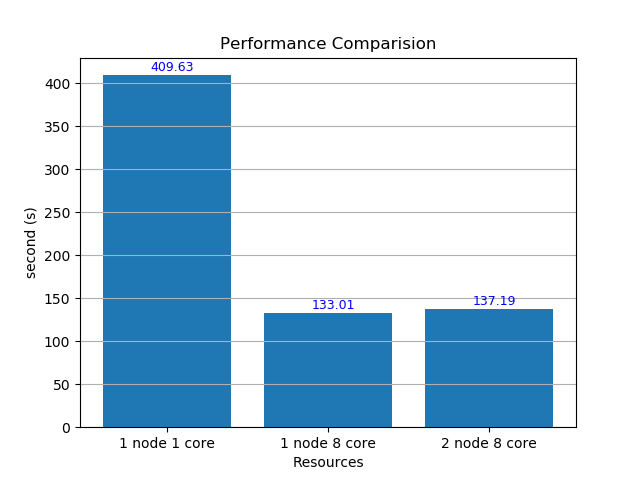
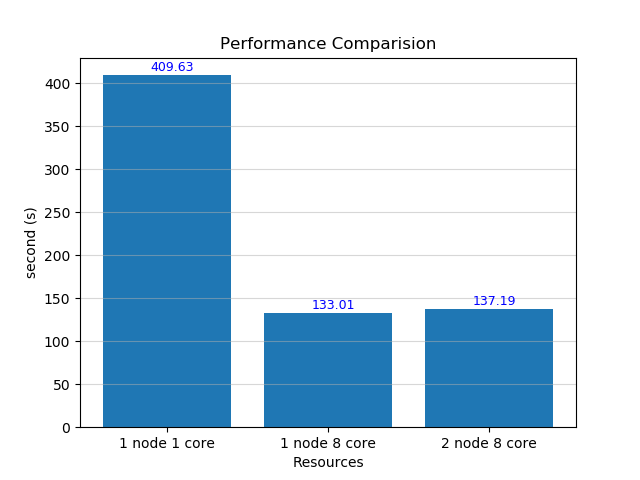
add 1 node v.s. 2 node

diff --git a/src/analysis/analysis.py b/src/analysis/analysis.py
@@ -13,7 +13,7 @@ DATA_FILE_TYPE = ".txt"
 IMAGE_TYPE = ".png"
 
 
-def read_physical_txt(file_path: str):
+def read_txt(file_path: str):
     run_time = None
     read_country_code_file_time = {}  # {#processor: time}
     process_time = {}
@@ -50,21 +50,21 @@ def draw_bar_chart(file_name: str):
     x = []
     y = []
     one_node_1_core_file_path = DATA_DIR + "1node1core-physical" + DATA_FILE_TYPE
-    run_time, read_country_code_file_time, process_time, calculate_top_n_time = read_physical_txt(one_node_1_core_file_path)
+    run_time, read_country_code_file_time, process_time, calculate_top_n_time = read_txt(one_node_1_core_file_path)
     x.append("1 node 1 core")
     y.append(run_time)
 
     one_node_8_core_file_path = DATA_DIR + "1node8core-physical" + DATA_FILE_TYPE
-    run_time, read_country_code_file_time, process_time, calculate_top_n_time = read_physical_txt(one_node_8_core_file_path)
+    run_time, read_country_code_file_time, process_time, calculate_top_n_time = read_txt(one_node_8_core_file_path)
     x.append("1 node 8 core")
     y.append(run_time)
 
     two_node_8_core_file_path = DATA_DIR + "2node8core-physical" + DATA_FILE_TYPE
-    run_time, read_country_code_file_time, process_time, calculate_top_n_time = read_physical_txt(two_node_8_core_file_path)
+    run_time, read_country_code_file_time, process_time, calculate_top_n_time = read_txt(two_node_8_core_file_path)
     x.append("2 node 8 core")
     y.append(run_time)
 
-    plt.grid(True, axis='y')
+    plt.grid(True, axis='y', alpha=0.5)
     plt.bar(range(len(x)), y, tick_label=x)
     plt.title(file_name)
     plt.xlabel("Resources")
@@ -75,7 +75,53 @@ def draw_bar_chart(file_name: str):
     plt.show()
 
 
+def draw_bar_chart2(file_name: str):
+    name_list = []
+    y1 = []
+    y2 = []
+    one_node_8_core_file_path = DATA_DIR + "1node8core-physical" + DATA_FILE_TYPE
+    run_time, read_country_code_file_time, process_time, calculate_top_n_time = read_txt(one_node_8_core_file_path)
+    name_list.append("1 node 8 core")
+    y1.append(run_time)
+
+    two_node_8_core_file_path = DATA_DIR + "2node8core-physical" + DATA_FILE_TYPE
+    run_time, read_country_code_file_time, process_time, calculate_top_n_time = read_txt(two_node_8_core_file_path)
+    name_list.append("2 node 8 core")
+    y1.append(run_time)
+
+    one_node_8_core_file_path = DATA_DIR + "1node8core-cloud" + DATA_FILE_TYPE
+    run_time, read_country_code_file_time, process_time, calculate_top_n_time = read_txt(one_node_8_core_file_path)
+    y2.append(run_time)
+
+    two_node_8_core_file_path = DATA_DIR + "2node8core-cloud" + DATA_FILE_TYPE
+    run_time, read_country_code_file_time, process_time, calculate_top_n_time = read_txt(two_node_8_core_file_path)
+    y2.append(run_time)
+
+    total_width, n = 0.5, 2
+    width = total_width / n
+
+    x = list(range(1, len(name_list)+1))
+
+    plt.grid(True, axis='y', alpha=0.5)
+    print(x, y1, y2)
+    plt.bar(x, y1, width=width, label='physical', fc='b', align="edge")
+    for i in range(len(x)):
+        x[i] = x[i] + width
+    print(x, y1, y2)
+    plt.bar(x, y2, width=width, label='cloud', tick_label=name_list, align="edge", fc='r')
+    plt.legend()
+    plt.title(file_name)
+    plt.xlabel("Resources")
+    plt.ylabel("second (s)")
+    for i, v in enumerate(y1):
+        plt.text(i+1.12 - 0.05, v + 5, round(y1[i], 2), fontsize=9, color='b')
+    for i, v in enumerate(y2):
+        plt.text(i+1.12 + width - 0.05, v + 5, round(y2[i], 2), fontsize=9, color='r')
+    plt.savefig(OUTPUT_DIR + file_name + IMAGE_TYPE)
+    plt.show()
+
+
 if __name__ == "__main__":
     draw_bar_chart("Performance Comparision")
-
+    draw_bar_chart2("1 node v.s. 2 node")
     pass
